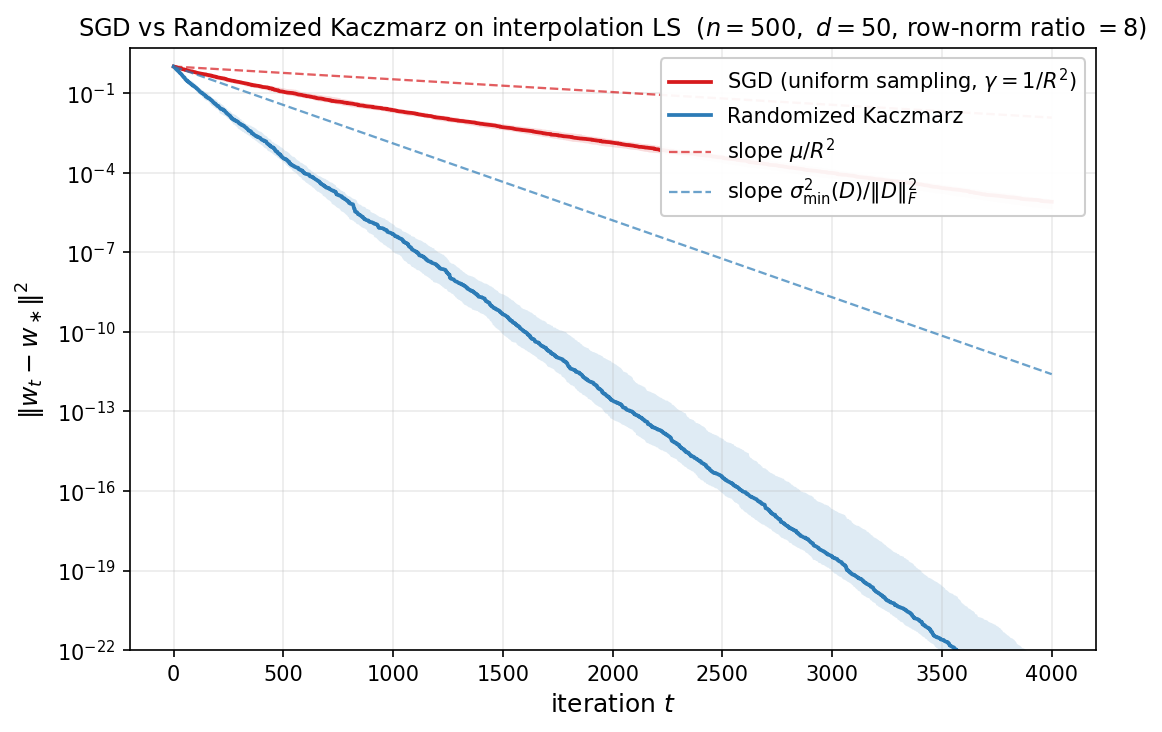
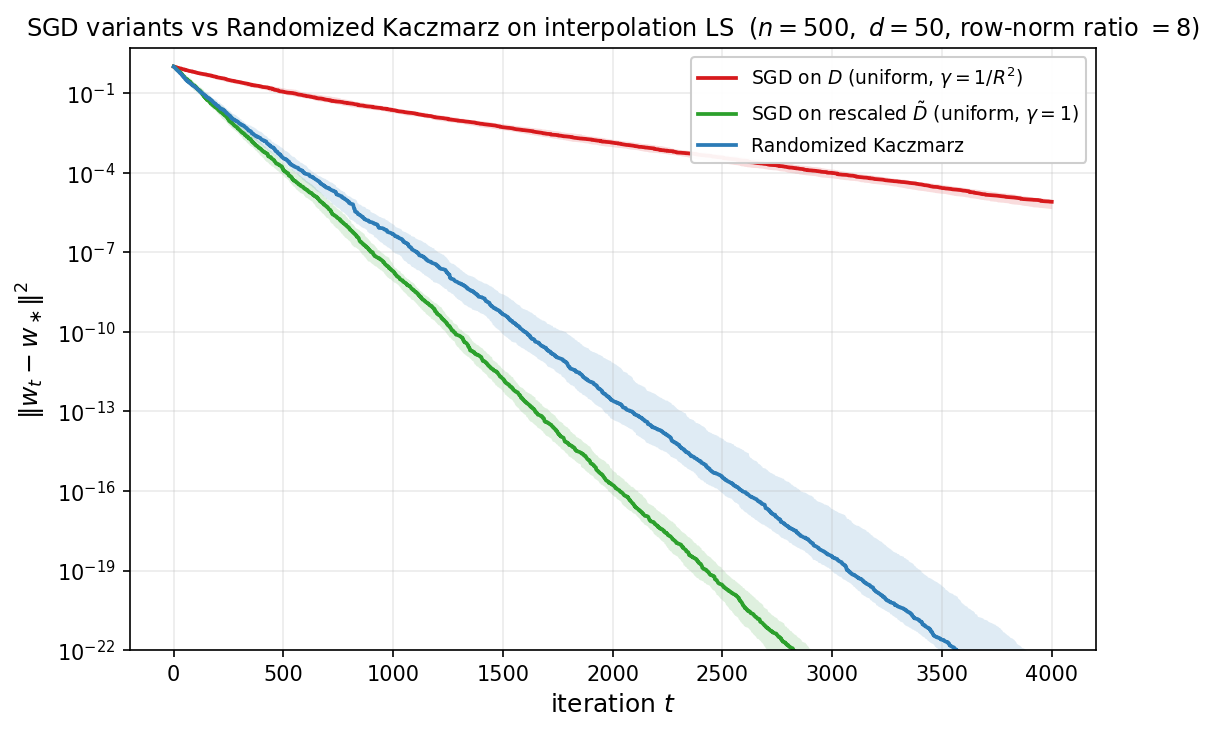
Add Kaczmarz alternative-approach remarks and rescaled-SGD curve
Two new remarks after Theorem 8.5 discuss why one would not (i) solve a
sketched d-row subsystem directly (column subset selection / sketching
trade-offs) or (ii) renormalize rows and run uniform-sampling SGD on the
rescaled system: with R^2_tilde=1 the prescribed stepsize is gamma=1 and
the resulting update coincides with the Kaczmarz projection, so the only
genuine choice is which system carries the projection (norm-weighted on
D vs uniform on tilde D), giving rates sigma_min^2(D)/||D||_F^2 vs
sigma_min^2(tilde D)/n. The numerical experiment now also runs uniform
SGD on the rescaled system as a third curve; reference slope dashes were
dropped to keep the plot uncluttered. Bibliography entries Mah11 and
Woo14 added for the sketching pointers.

diff --git a/scripts/plot_kaczmarz_vs_sgd.py b/scripts/plot_kaczmarz_vs_sgd.py
@@ -5,14 +5,15 @@ Model: D in R^{n x d} with rows of varying norms; w_* is a random unit vector an
 y = D w_* (interpolation, so the noise floor in Theorem 8.1 vanishes).
 
 Algorithms compared:
-  - SGD with uniform sampling and stepsize gamma = 1/max_i ||d_i||^2
-    (the largest stepsize allowed by assumption (25) with R^2 = max_i ||d_i||^2)
-  - Randomized Kaczmarz (Strohmer-Vershynin): importance-sampling
-    p_i = ||d_i||^2 / ||D||_F^2 plus row-adaptive stepsize 1/||d_i||^2 (projection)
-
-Both achieve linear convergence in the interpolation regime; the Kaczmarz rate
-sigma_min^2(D) / ||D||_F^2 dominates SGD's rate sigma_min^2(D) / (n * max_i ||d_i||^2)
-by the row-norm spread factor max_i ||d_i||^2 / mean_i ||d_i||^2.
+  - SGD on D with uniform sampling and stepsize gamma = 1/max_i ||d_i||^2
+    (the largest stepsize allowed by assumption (25) with R^2 = max_i ||d_i||^2);
+    rate sigma_min^2(D) / (n * max_i ||d_i||^2).
+  - SGD on the row-rescaled system tilde D, tilde y with unit-norm rows,
+    uniform sampling, and stepsize gamma = 1; rate sigma_min^2(tilde D) / n.
+    The update coincides with the Kaczmarz projection; only the sampling differs.
+  - Randomized Kaczmarz (Strohmer-Vershynin): importance sampling
+    p_i = ||d_i||^2 / ||D||_F^2 plus the projection update; rate
+    sigma_min^2(D) / ||D||_F^2 = sigma_min^2(D) / (n * mean_i ||d_i||^2).
 """
 
 from __future__ import annotations
@@ -89,6 +90,29 @@ def run_kaczmarz(
     return err
 
 
+def run_sgd_rescaled_uniform(
+    D: np.ndarray,
+    y: np.ndarray,
+    w_star: np.ndarray,
+    n_iters: int,
+    rng: np.random.Generator,
+) -> np.ndarray:
+    """SGD with uniform sampling on the row-rescaled system tilde D w = tilde y,
+    where tilde d_i = d_i / ||d_i||. With stepsize gamma = 1 the update reduces
+    to the Kaczmarz projection on the original system; only the sampling differs."""
+    n, d = D.shape
+    row_norms_sq = np.einsum("ij,ij->i", D, D)
+    w = np.zeros(d)
+    err = np.empty(n_iters + 1)
+    err[0] = float(np.dot(w - w_star, w - w_star))
+    for t in range(n_iters):
+        i = int(rng.integers(n))
+        residual = y[i] - float(D[i] @ w)
+        w = w + (residual / row_norms_sq[i]) * D[i]
+        err[t + 1] = float(np.dot(w - w_star, w - w_star))
+    return err
+
+
 def main() -> None:
     n, d = 500, 50
     row_scale_ratio = 8.0
@@ -105,25 +129,39 @@ def main() -> None:
     sigma_min_sq = float(sing_values[-1] ** 2)
     fro_sq = float((D ** 2).sum())
 
+    # Spectrum of the row-rescaled matrix tilde D (unit-norm rows).
+    D_tilde = D / np.sqrt(row_norms_sq[:, None])
+    sing_tilde = np.linalg.svd(D_tilde, compute_uv=False)
+    sigma_min_sq_tilde = float(sing_tilde[-1] ** 2)
+
     # Per-step exponential rates (smaller = slower).
     rate_sgd = sigma_min_sq / (n * R2_max)
+    rate_resc = sigma_min_sq_tilde / n
     rate_kac = sigma_min_sq / fro_sq
 
-    print(f"row-norm spread max/avg = {R2_max / avg_norm_sq:.3f}")
-    print(f"R^2 = max_i ||d_i||^2   = {R2_max:.4g}")
-    print(f"avg_i ||d_i||^2          = {avg_norm_sq:.4g}")
-    print(f"sigma_min^2(D)           = {sigma_min_sq:.4g}")
-    print(f"||D||_F^2                = {fro_sq:.4g}")
-    print(f"SGD per-step rate        = {rate_sgd:.4g}")
-    print(f"Kaczmarz per-step rate   = {rate_kac:.4g}")
-    print(f"Kaczmarz / SGD speedup   = {rate_kac / rate_sgd:.3f}")
+    print(f"row-norm spread max/avg     = {R2_max / avg_norm_sq:.3f}")
+    print(f"R^2 = max_i ||d_i||^2       = {R2_max:.4g}")
+    print(f"avg_i ||d_i||^2             = {avg_norm_sq:.4g}")
+    print(f"sigma_min^2(D)              = {sigma_min_sq:.4g}")
+    print(f"sigma_min^2(tilde D)        = {sigma_min_sq_tilde:.4g}")
+    print(f"||D||_F^2                   = {fro_sq:.4g}")
+    print(f"SGD per-step rate           = {rate_sgd:.4g}")
+    print(f"Rescaled-uniform rate       = {rate_resc:.4g}")
+    print(f"Kaczmarz per-step rate      = {rate_kac:.4g}")
+    print(f"Kaczmarz / SGD speedup      = {rate_kac / rate_sgd:.3f}")
+    print(f"Kaczmarz / Rescaled speedup = {rate_kac / rate_resc:.3f}")
 
     sgd_runs = np.empty((n_trials, n_iters + 1))
+    resc_runs = np.empty((n_trials, n_iters + 1))
     kac_runs = np.empty((n_trials, n_iters + 1))
     for trial in range(n_trials):
         rng = np.random.default_rng(1000 + trial)
         sgd_runs[trial] = run_sgd_uniform(
             D, y, w_star, gamma=1.0 / R2_max, n_iters=n_iters, rng=rng
+        )
+        rng = np.random.default_rng(3000 + trial)
+        resc_runs[trial] = run_sgd_rescaled_uniform(
+            D, y, w_star, n_iters=n_iters, rng=rng
         )
         rng = np.random.default_rng(2000 + trial)
         kac_runs[trial] = run_kaczmarz(D, y, w_star, n_iters=n_iters, rng=rng)
@@ -133,6 +171,9 @@ def main() -> None:
     sgd_med = np.median(sgd_runs, axis=0)
     sgd_lo = np.quantile(sgd_runs, 0.1, axis=0)
     sgd_hi = np.quantile(sgd_runs, 0.9, axis=0)
+    resc_med = np.median(resc_runs, axis=0)
+    resc_lo = np.quantile(resc_runs, 0.1, axis=0)
+    resc_hi = np.quantile(resc_runs, 0.9, axis=0)
     kac_med = np.median(kac_runs, axis=0)
     kac_lo = np.quantile(kac_runs, 0.1, axis=0)
     kac_hi = np.quantile(kac_runs, 0.9, axis=0)
@@ -143,12 +184,19 @@ def main() -> None:
 
     fig, ax = plt.subplots(figsize=(7.5, 5.0), dpi=120)
     color_sgd = "#d7191c"
+    color_resc = "#2ca02c"
     color_kac = "#2c7bb6"
 
     ax.fill_between(iters, sgd_lo, sgd_hi, color=color_sgd, alpha=0.15, linewidth=0)
     ax.semilogy(
         iters, sgd_med, "-", color=color_sgd, linewidth=1.8,
-        label=r"SGD (uniform sampling, $\gamma=1/R^2$)",
+        label=r"SGD on $D$ (uniform, $\gamma=1/R^2$)",
+    )
+
+    ax.fill_between(iters, resc_lo, resc_hi, color=color_resc, alpha=0.15, linewidth=0)
+    ax.semilogy(
+        iters, resc_med, "-", color=color_resc, linewidth=1.8,
+        label=r"SGD on rescaled $\tilde D$ (uniform, $\gamma=1$)",
     )
 
     ax.fill_between(iters, kac_lo, kac_hi, color=color_kac, alpha=0.15, linewidth=0)
@@ -157,27 +205,16 @@ def main() -> None:
         label="Randomized Kaczmarz",
     )
 
-    ax.semilogy(
-        t_grid, e0 * np.exp(-rate_sgd * t_grid), "--",
-        color=color_sgd, linewidth=1.1, alpha=0.7,
-        label=r"slope $\mu/R^2$",
-    )
-    ax.semilogy(
-        t_grid, e0 * np.exp(-rate_kac * t_grid), "--",
-        color=color_kac, linewidth=1.1, alpha=0.7,
-        label=r"slope $\sigma_{\min}^2(D)/\|D\|_F^2$",
-    )
-
     ax.set_xlabel(r"iteration $t$", fontsize=12)
     ax.set_ylabel(r"$\|w_t - w_\ast\|^2$", fontsize=12)
     ax.set_ylim(1e-22, 5.0)
     ax.set_title(
-        rf"SGD vs Randomized Kaczmarz on interpolation LS"
+        rf"SGD variants vs Randomized Kaczmarz on interpolation LS"
         rf"  ($n={n},\ d={d}$, row-norm ratio $={row_scale_ratio:.0f}$)",
         fontsize=11.5,
     )
     ax.grid(True, alpha=0.25, which="both")
-    ax.legend(fontsize=10, loc="upper right", framealpha=0.95)
+    ax.legend(fontsize=9, loc="upper right", framealpha=0.95)
     fig.tight_layout()
 
     out = FIGURES_DIR / "kaczmarz_vs_sgd.png"

diff --git a/week1.md b/week1.md
@@ -1990,10 +1990,10 @@ A natural question is whether one can do better by exploiting the row geometry. 
 
 **Input:** $D \in \mathbb{R}^{n\times d}$ with nonzero rows $d_1, \ldots, d_n$, $\;y \in \mathbb{R}^n$, $\;w_0 \in \mathbb{R}^d$
 
-1. Set $p_i = \lVert d_i\rVert^2 / \lVert D\rVert_F^2$ for $i = 1, \ldots, n$
-2. **For** $t = 0, 1, 2, \ldots$ do:
-3. $\qquad$ sample $i_t \in \{1, \ldots, n\}$ with probability $p_{i_t}$
-4. $\qquad w_{t+1} = w_t \;+\; \dfrac{y_{i_t} - \langle d_{i_t}, w_t\rangle}{\lVert d_{i_t}\rVert^2}\,d_{i_t}$
+Set $p_i = \lVert d_i\rVert^2 / \lVert D\rVert_F^2$ for $i = 1, \ldots, n$
+**For** $t = 0, 1, 2, \ldots$ do:
+$\qquad$ sample $i_t \in \{1, \ldots, n\}$ with probability $p_{i_t}$
+$\qquad w_{t+1} = w_t \;+\; \dfrac{y_{i_t} - \langle d_{i_t}, w_t\rangle}{\lVert d_{i_t}\rVert^2}\,d_{i_t}$
 
 </div>
 
@@ -2041,7 +2041,15 @@ $$\underbrace{\frac{\sigma_{\min}^2(D)}{n\,\max_i\lVert d_i\rVert^2}}_{\text{SGD
 
 Note that we are only comparing upper-bounds on performance. Nonetheless, the comparison is meaningful. The difference between the two bound is whether the *worst* or the *average* squared row norm appears in the denominator. The two coincide when all row norms are equal; the Kaczmarz rate dominates by the row-norm spread $\max_i\lVert d_i\rVert^2 / \overline{\lVert d\rVert^2}$, which can be arbitrarily large when the rows are scaled very differently. Behind the gain is a small algorithmic shift: Kaczmarz draws rows with norm-weighted probability rather than uniformly, and uses the row-adaptive stepsize $1/\lVert d_{i_t}\rVert^2$ rather than the global $1/\max_i\lVert d_i\rVert^2$. Together these two adjustments swap $\max_i\lVert d_i\rVert^2$ for $\overline{\lVert d\rVert^2}$ in the per-step contraction.
 
-**Numerical illustration.** The figure below compares uniform-sampling SGD with stepsize $\gamma = 1/\max_i\lVert d_i\rVert^2$ and randomized Kaczmarz on a synthetic interpolation least-squares instance with $n=500$, $d=50$, and rows $d_i \sim \mathcal{N}(0, I_d)$ rescaled so that the row norms span a multiplicative range of $8$. The right-hand side is $y = D w_\ast$ for a random unit vector $w_\ast$, and both algorithms start from $w_0 = 0$. Solid curves are the median of $\lVert w_t - w_\ast\rVert^2$ over $25$ trials and the shaded ribbon is the corresponding $10$--$90\%$ interquantile band; dashed reference lines have the predicted exponential slopes $\mu/R^2$ and $\sigma_{\min}^2(D)/\lVert D\rVert_F^2$. Both algorithms exhibit linear convergence, but the Kaczmarz contraction is roughly $6\times$ steeper, exactly matching the row-norm spread $\max_i\lVert d_i\rVert^2/\overline{\lVert d\rVert^2}$ predicted above.
+**Remark (why not just solve a smaller linear subsystem?).** A natural alternative to Kaczmarz is to pick a small subset of $m \geq d$ rows of $D$ and solve the reduced system $D_S w = y_S$ directly. Deterministic row selection is delicate: an arbitrary $d$-row submatrix can have a much smaller minimum singular value than $D$ itself, and finding a *well-conditioned* subset is hard in general (the column-subset-selection problem). The randomized version --- random row sampling --- leads to a different class of techniques called **sketching**. The two techniques are largely complementary. 
+
+**Remark (why not rescale rows and run standard SGD?).** Another tempting reduction is to renormalize each equation, $\tilde d_i := d_i/\lVert d_i\rVert$ and $\tilde y_i := y_i/\lVert d_i\rVert$, so that the rescaled system $\tilde D w = \tilde y$ has unit-norm rows. The rescaling also changes the stepsize prescribed by Theorem 8.1: the smallest valid $R^2$ is now $\tilde R^2 = \max_i\lVert\tilde d_i\rVert^2 = 1$, so the optimal stepsize on the rescaled problem is $\gamma = 1/\tilde R^2 = 1$ rather than the smaller $1/\max_i\lVert d_i\rVert^2$ used on the original. With this prescribed stepsize, standard SGD on $\tilde D w = \tilde y$ produces the update
+
+$$w_{t+1} = w_t + (\tilde y_{i_t} - \langle \tilde d_{i_t}, w_t\rangle)\,\tilde d_{i_t} \;=\; w_t + \frac{y_{i_t} - \langle d_{i_t}, w_t\rangle}{\lVert d_{i_t}\rVert^2}\,d_{i_t},$$
+
+which is the Kaczmarz projection step. Indeed, this is exactly Algorithm 2 applied to the rescaled system $(\tilde D,\tilde y)$, since the norm-weighted distribution $p_i = \lVert\tilde d_i\rVert^2/\lVert\tilde D\rVert_F^2$ collapses to uniform when all rows have unit norm. So the question is *which system one applies the projection update to*: the original $(D,y)$, where the norm-weighted distribution favors long rows, or the rescaled $(\tilde D,\tilde y)$, where every row is sampled equally. The two are different algorithms, and Theorem 8.5 gives correspondingly different rates: $\sigma_{\min}^2(D)/\lVert D\rVert_F^2$ on the original, $\sigma_{\min}^2(\tilde D)/n$ on the rescaled. The rescaling can either improve or degrade $\sigma_{\min}$, so neither variant dominates the other in general.
+
+**Numerical illustration.** The figure below compares the three algorithms above --- uniform-sampling SGD on $D$ with stepsize $\gamma = 1/\max_i\lVert d_i\rVert^2$, uniform-sampling SGD on the row-rescaled system $\tilde D, \tilde y$ with stepsize $\gamma = 1$, and randomized Kaczmarz --- on a synthetic interpolation least-squares instance with $n=500$, $d=50$, and rows $d_i \sim \mathcal{N}(0, I_d)$ rescaled so that the row norms span a multiplicative range of $8$. The right-hand side is $y = D w_\ast$ for a random unit vector $w_\ast$, and all three algorithms start from $w_0 = 0$. Solid curves are the median of $\lVert w_t - w_\ast\rVert^2$ over $25$ trials and the shaded ribbons are the corresponding $10$--$90\%$ interquantile bands. All three curves exhibit linear convergence, with Kaczmarz roughly $6\times$ steeper than the original-scale SGD --- exactly the row-norm spread $\max_i\lVert d_i\rVert^2/\overline{\lVert d\rVert^2}$. On this isotropic example rescaled SGD is in fact slightly faster still, since the rescaling here improves the conditioning of the gram matrix; on other instances the ranking of the green and blue curves can flip.
 
 ![Randomized Kaczmarz vs uniform-sampling SGD on an interpolation least-squares problem](figures/kaczmarz_vs_sgd.png)
 
@@ -2427,6 +2435,8 @@ The notes combine ideas that appear in different communities; the table below ma
 - [SV09] Strohmer, T., and Vershynin, R. (2009). *A randomized Kaczmarz algorithm with exponential convergence*. Journal of Fourier Analysis and Applications, 15(2):262--278.
 - [NSW16] Needell, D., Srebro, N., and Ward, R. (2016). *Stochastic gradient descent, weighted sampling, and the randomized Kaczmarz algorithm*. Mathematical Programming, 155(1):549--573.
 - [GR15] Gower, R. M., and Richtárik, P. (2015). *Randomized iterative methods for linear systems*. SIAM Journal on Matrix Analysis and Applications, 36(4):1660--1690.
+- [Mah11] Mahoney, M. W. (2011). *Randomized algorithms for matrices and data*. Foundations and Trends in Machine Learning, 3(2):123--224.
+- [Woo14] Woodruff, D. P. (2014). *Sketching as a tool for numerical linear algebra*. Foundations and Trends in Theoretical Computer Science, 10(1--2):1--157.
 - [SS95] Saad, D., and Solla, S. A. (1995). *Exact solution for on-line learning in multilayer neural networks*. Physical Review Letters, 74(21):4337--4340.
 - [BAGJ22] Ben Arous, G., Gheissari, R., and Jagannath, A. (2022). *High-dimensional limit theorems for SGD: Effective dynamics and critical scaling*. Communications on Pure and Applied Mathematics, to appear. arXiv:2206.04030.
 - [Paq+22a] Paquette, C., Paquette, E., Adlam, B., and Pennington, J. (2022). *Homogenization of SGD in high-dimensions: exact dynamics and generalization properties*. arXiv:2205.07069.
